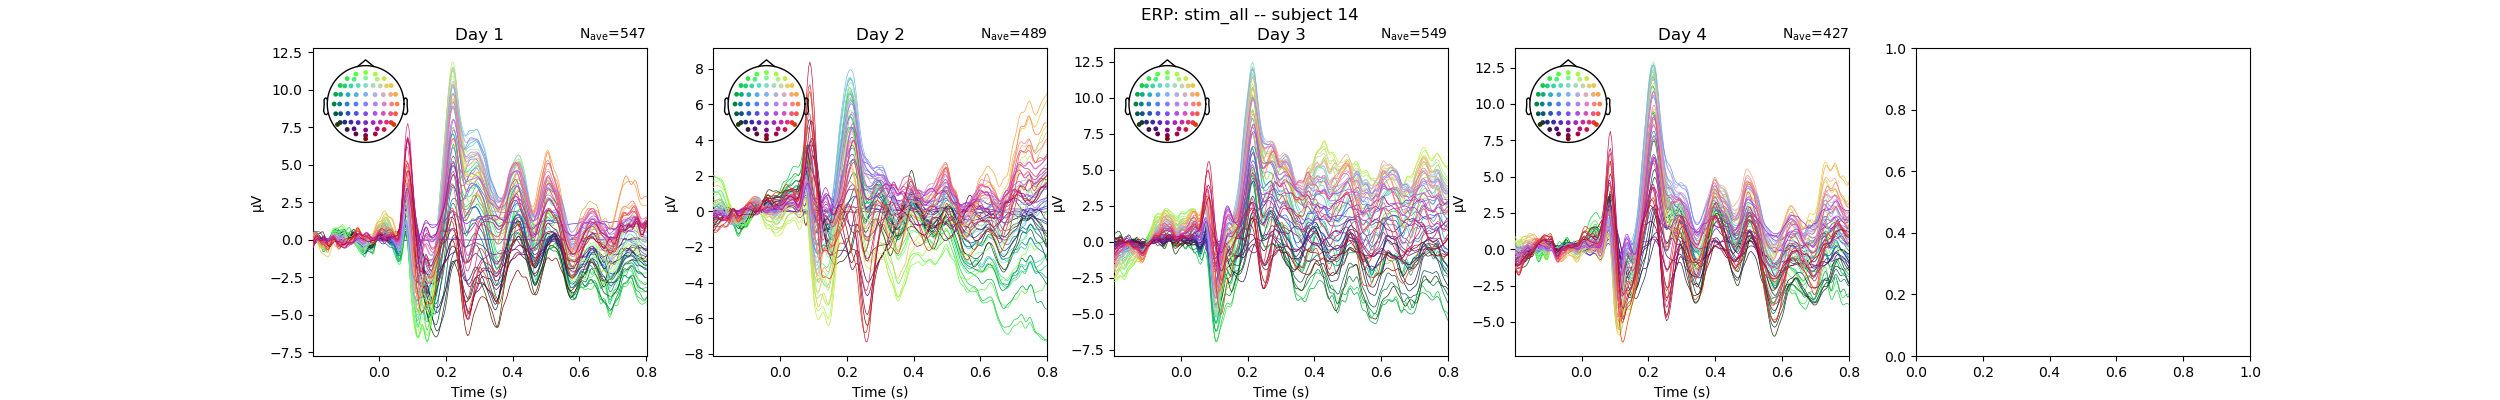
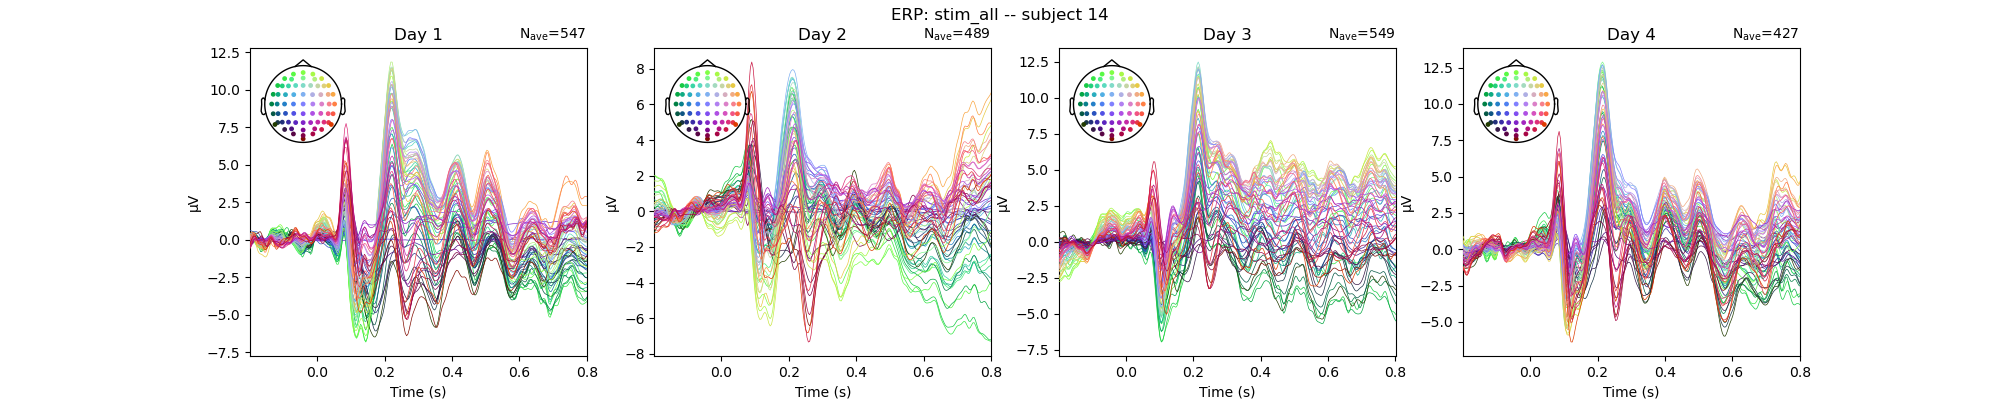
new output and figures and resp locked erp

diff --git a/code/util_func_erp.py b/code/util_func_erp.py
@@ -3,6 +3,7 @@
 
 from pathlib import Path
 import os
+import numpy as np
 import pandas as pd
 import matplotlib
 matplotlib.use("Agg")
@@ -34,16 +35,130 @@ def util_erp_make_figures():
     }
 
     evoked_stim_all_rec = []
+    evoked_stim_cor_rec = []
+    evoked_stim_inc_rec = []
+    evoked_resp_all_rec = []
+    evoked_resp_cor_rec = []
+    evoked_resp_inc_rec = []
     sessions = util_wrangle_load_sessions()
     d = pd.DataFrame(sessions)
+
+    def _make_response_locked_evoked(epochs_stim, rt_sec, t_before=0.6):
+        """Build response-locked evoked with x-axis as time before response (0 -> t_before)."""
+        data = epochs_stim.get_data()
+        times = epochs_stim.times
+        info = epochs_stim.info.copy()
+        sfreq = info["sfreq"]
+        tau = np.arange(0.0, t_before + (1.0 / sfreq) / 2.0, 1.0 / sfreq)
+
+        n_trials, n_ch, _ = data.shape
+        aligned = np.full((n_trials, n_ch, len(tau)), np.nan, dtype=float)
+        for i_trial in range(n_trials):
+            rt = rt_sec[i_trial]
+            if (not np.isfinite(rt)) or (rt <= 0):
+                continue
+            sample_t = rt - tau
+            valid = (sample_t >= times[0]) & (sample_t <= times[-1])
+            if not np.any(valid):
+                continue
+            for i_ch in range(n_ch):
+                aligned[i_trial, i_ch, valid] = np.interp(sample_t[valid], times, data[i_trial, i_ch, :])
+
+        with np.errstate(invalid="ignore"):
+            mean_data = np.nanmean(aligned, axis=0)
+        # Some response-locked bins can have no valid contributing trials; keep plotting robust.
+        mean_data = np.nan_to_num(mean_data, nan=0.0, posinf=0.0, neginf=0.0)
+        return mne.EvokedArray(mean_data, info=info, tmin=0.0, nave=n_trials)
+
+    def _plot_day_grid(evoked_map, title, fig_name):
+        days_sorted = sorted(evoked_map.keys())
+        if len(days_sorted) == 0:
+            return
+        fig, axes = plt.subplots(1, len(days_sorted), figsize=(5 * len(days_sorted), 4), squeeze=False)
+        for i, day in enumerate(days_sorted):
+            ax = axes[0, i]
+            evoked_map[day].plot(
+                axes=ax,
+                show=False,
+                spatial_colors=True,
+                titles=f"Day {day}",
+            )
+            ax.set_title(f"Day {day}")
+        fig.suptitle(title)
+        fig.savefig(figures_dir / fig_name)
+        plt.close(fig)
+
+    def _plot_day_condition_grid(evoked_by_day_cond, title, fig_name):
+        days_sorted = sorted({k[0] for k in evoked_by_day_cond.keys()})
+        conds = ["correct", "incorrect"]
+        fig, axes = plt.subplots(
+            len(conds),
+            len(days_sorted),
+            figsize=(5 * len(days_sorted), 4 * len(conds)),
+            squeeze=False,
+        )
+        for r, cond in enumerate(conds):
+            for c, day in enumerate(days_sorted):
+                ax = axes[r, c]
+                key = (day, cond)
+                if key not in evoked_by_day_cond:
+                    ax.set_axis_off()
+                    continue
+                evoked_by_day_cond[key].plot(
+                    axes=ax,
+                    show=False,
+                    spatial_colors=True,
+                    titles=f"Day {day} - {cond}",
+                )
+                ax.set_title(f"Day {day} - {cond}")
+        fig.suptitle(title)
+        fig.savefig(figures_dir / fig_name)
+        plt.close(fig)
+
+    def _evoked_map_to_long(evoked_map, lock_type, condition):
+        rows = []
+        for day, evoked in evoked_map.items():
+            arr = evoked.data
+            for i_ch, ch in enumerate(evoked.ch_names):
+                rows.append(
+                    pd.DataFrame(
+                        {
+                            "day": int(day),
+                            "lock_type": lock_type,
+                            "condition": condition,
+                            "channel": ch,
+                            "time_s": evoked.times,
+                            "amplitude_v": arr[i_ch, :],
+                        }
+                    )
+                )
+        if len(rows) == 0:
+            return pd.DataFrame(
+                columns=["day", "lock_type", "condition", "channel", "time_s", "amplitude_v"]
+            )
+        return pd.concat(rows, ignore_index=True)
 
     for sbj in d["subject"].unique():
         ds = d[d["subject"] == sbj]
         for day in ds["day"].unique():
             dsd = ds[ds["day"] == day]
-            beh_df = dsd["beh_df"].copy()
+            beh_df = dsd["beh_df"].iloc[0].copy()
             epochs = dsd["epochs"].iloc[0]
-            evoked_stim_all = epochs[event_map["stim_all"]].average()
+            beh_df = beh_df.sort_values("trial").reset_index(drop=True)
+            rt_sec = beh_df["rt"].astype(float).to_numpy() / 1000.0
+            fb = beh_df["fb"].astype(str).str.lower().to_numpy()
+
+            epochs_stim_all = epochs[event_map["stim_all"]]
+            n = min(len(epochs_stim_all), len(beh_df))
+            if n == 0:
+                continue
+            epochs_stim_all = epochs_stim_all[:n]
+            rt_use = rt_sec[:n]
+            fb_use = fb[:n]
+            idx_cor = np.where(fb_use == "correct")[0]
+            idx_inc = np.where(fb_use == "incorrect")[0]
+
+            evoked_stim_all = epochs_stim_all.average()
             evoked_stim_all_rec.append(
                 {
                     "subject": sbj,
@@ -51,13 +166,64 @@ def util_erp_make_figures():
                     "evoked_stim_all": evoked_stim_all,
                 }
             )
+            if len(idx_cor) > 0:
+                evoked_stim_cor_rec.append(
+                    {
+                        "subject": sbj,
+                        "day": day,
+                        "evoked_stim_cor": epochs_stim_all[idx_cor].average(),
+                    }
+                )
+            if len(idx_inc) > 0:
+                evoked_stim_inc_rec.append(
+                    {
+                        "subject": sbj,
+                        "day": day,
+                        "evoked_stim_inc": epochs_stim_all[idx_inc].average(),
+                    }
+                )
+
+            evoked_resp_all = _make_response_locked_evoked(epochs_stim_all, rt_use, t_before=0.6)
+            evoked_resp_all_rec.append(
+                {
+                    "subject": sbj,
+                    "day": day,
+                    "evoked_resp_all": evoked_resp_all,
+                }
+            )
+            if len(idx_cor) > 0:
+                evoked_resp_cor_rec.append(
+                    {
+                        "subject": sbj,
+                        "day": day,
+                        "evoked_resp_cor": _make_response_locked_evoked(
+                            epochs_stim_all[idx_cor], rt_use[idx_cor], t_before=0.6
+                        ),
+                    }
+                )
+            if len(idx_inc) > 0:
+                evoked_resp_inc_rec.append(
+                    {
+                        "subject": sbj,
+                        "day": day,
+                        "evoked_resp_inc": _make_response_locked_evoked(
+                            epochs_stim_all[idx_inc], rt_use[idx_inc], t_before=0.6
+                        ),
+                    }
+                )
 
     evoked_stim_all_rec = pd.DataFrame(evoked_stim_all_rec)
+    evoked_stim_cor_rec = pd.DataFrame(evoked_stim_cor_rec)
+    evoked_stim_inc_rec = pd.DataFrame(evoked_stim_inc_rec)
+    evoked_resp_all_rec = pd.DataFrame(evoked_resp_all_rec)
+    evoked_resp_cor_rec = pd.DataFrame(evoked_resp_cor_rec)
+    evoked_resp_inc_rec = pd.DataFrame(evoked_resp_inc_rec)
 
     for s in evoked_stim_all_rec["subject"].unique():
         ds = evoked_stim_all_rec[evoked_stim_all_rec["subject"] == s]
-        fig, axes = plt.subplots(1, 5, figsize=(25, 4), squeeze=False)
-        for i, day in enumerate(ds["day"].unique()):
+        days_sorted = sorted(ds["day"].unique())
+        fig, axes = plt.subplots(1, len(days_sorted), figsize=(5 * len(days_sorted), 4), squeeze=False)
+        for i, day in enumerate(days_sorted):
             ax = axes[0, i]
             evoked = ds.loc[ds["day"] == day, "evoked_stim_all"].iloc[0]
             evoked.plot(
@@ -75,17 +241,67 @@ def util_erp_make_figures():
     for day, g in evoked_stim_all_rec.groupby("day"):
         evoked_stim_all_mean[day] = mne.grand_average(g["evoked_stim_all"].tolist())
 
-    fig, axes = plt.subplots(1, 5, figsize=(25, 4), squeeze=False)
-    for i, day in enumerate(evoked_stim_all_rec["day"].unique()):
-        ax = axes[0, i]
-        evoked_stim_all_mean[day].plot(
-            axes=ax,
-            show=False,
-            spatial_colors=True,
-            titles=f"Day {day}",
-        )
-        ax.set_title(f"Day {day}")
+    _plot_day_grid(
+        evoked_stim_all_mean,
+        title="Grand Average ERP: stim_all",
+        fig_name="erp_stim_all.png",
+    )
 
-    fig.suptitle("Grand Average ERP: stim_all")
-    fig.savefig(figures_dir / "erp_stim_all.png")
-    plt.close(fig)
+    evoked_stim_cor_mean = {}
+    for day, g in evoked_stim_cor_rec.groupby("day"):
+        evoked_stim_cor_mean[day] = mne.grand_average(g["evoked_stim_cor"].tolist())
+    evoked_stim_inc_mean = {}
+    for day, g in evoked_stim_inc_rec.groupby("day"):
+        evoked_stim_inc_mean[day] = mne.grand_average(g["evoked_stim_inc"].tolist())
+
+    evoked_stim_by_day_cond = {}
+    for day in sorted(set(evoked_stim_all_mean.keys())):
+        if day in evoked_stim_cor_mean:
+            evoked_stim_by_day_cond[(day, "correct")] = evoked_stim_cor_mean[day]
+        if day in evoked_stim_inc_mean:
+            evoked_stim_by_day_cond[(day, "incorrect")] = evoked_stim_inc_mean[day]
+    _plot_day_condition_grid(
+        evoked_stim_by_day_cond,
+        title="Grand Average ERP: stim locked by feedback correctness",
+        fig_name="erp_stim_correct_vs_incorrect.png",
+    )
+
+    evoked_resp_all_mean = {}
+    for day, g in evoked_resp_all_rec.groupby("day"):
+        evoked_resp_all_mean[day] = mne.grand_average(g["evoked_resp_all"].tolist())
+    _plot_day_grid(
+        evoked_resp_all_mean,
+        title="Grand Average ERP: response locked (time before response)",
+        fig_name="erp_response_all.png",
+    )
+
+    evoked_resp_cor_mean = {}
+    for day, g in evoked_resp_cor_rec.groupby("day"):
+        evoked_resp_cor_mean[day] = mne.grand_average(g["evoked_resp_cor"].tolist())
+    evoked_resp_inc_mean = {}
+    for day, g in evoked_resp_inc_rec.groupby("day"):
+        evoked_resp_inc_mean[day] = mne.grand_average(g["evoked_resp_inc"].tolist())
+    evoked_resp_by_day_cond = {}
+    for day in sorted(set(evoked_resp_all_mean.keys())):
+        if day in evoked_resp_cor_mean:
+            evoked_resp_by_day_cond[(day, "correct")] = evoked_resp_cor_mean[day]
+        if day in evoked_resp_inc_mean:
+            evoked_resp_by_day_cond[(day, "incorrect")] = evoked_resp_inc_mean[day]
+    _plot_day_condition_grid(
+        evoked_resp_by_day_cond,
+        title="Grand Average ERP: response locked by feedback correctness",
+        fig_name="erp_response_correct_vs_incorrect.png",
+    )
+
+    d_out = pd.concat(
+        [
+            _evoked_map_to_long(evoked_stim_all_mean, "stim", "all"),
+            _evoked_map_to_long(evoked_stim_cor_mean, "stim", "correct"),
+            _evoked_map_to_long(evoked_stim_inc_mean, "stim", "incorrect"),
+            _evoked_map_to_long(evoked_resp_all_mean, "response", "all"),
+            _evoked_map_to_long(evoked_resp_cor_mean, "response", "correct"),
+            _evoked_map_to_long(evoked_resp_inc_mean, "response", "incorrect"),
+        ],
+        ignore_index=True,
+    ).sort_values(["lock_type", "condition", "day", "channel", "time_s"])
+    d_out.to_csv(output_dir / "erp_grand_averages_by_day_lock_condition.csv", index=False)

diff --git a/code/util_func_connect.py b/code/util_func_connect.py
@@ -19,6 +19,8 @@ def util_connect_compute_visual_motor():
 
     figures_dir = Path("../figures/connectivity")
     figures_dir.mkdir(parents=True, exist_ok=True)
+    output_dir = Path("../output/connectivity")
+    output_dir.mkdir(parents=True, exist_ok=True)
 
     mne.set_log_level("ERROR")
 
@@ -277,6 +279,7 @@ def util_connect_compute_visual_motor():
         return
 
     d_connect = d_connect.sort_values(["lock_type", "band", "subject", "day", "lock_time"])
+    d_connect.to_csv(output_dir / "connectivity_profiles_subject_day.csv", index=False)
 
     _save_profile_figure(
         d_connect[d_connect["lock_type"] == "stim"].copy(),
@@ -297,6 +300,8 @@ def util_connect_explore_sensorwide_dynamics():
 
     figures_dir = Path("../figures/connectivity_sensorwide")
     figures_dir.mkdir(parents=True, exist_ok=True)
+    output_dir = Path("../output/connectivity_sensorwide")
+    output_dir.mkdir(parents=True, exist_ok=True)
 
     mne.set_log_level("ERROR")
 
@@ -592,6 +597,7 @@ def util_connect_explore_sensorwide_dynamics():
 
     xy = _channel_xy(info_subset, channel_subset)
     all_days = sorted({k[1] for k in agg.keys()})
+    agg_rows = []
 
     for lock_name in locks:
         for band_name in bands.keys():
@@ -610,6 +616,18 @@ def util_connect_explore_sensorwide_dynamics():
                             s, c = agg[key]
                             mat[i, j] = s / c if c > 0 else np.nan
                             mat[j, i] = mat[i, j]
+                            agg_rows.append(
+                                {
+                                    "lock_type": lock_name,
+                                    "day": day,
+                                    "band": band_name,
+                                    "lock_time": float(t),
+                                    "ch_i": channel_subset[i],
+                                    "ch_j": channel_subset[j],
+                                    "conn_val": float(mat[i, j]),
+                                    "n_session_contrib": int(c),
+                                }
+                            )
                     np.fill_diagonal(mat, 0.0)
                     mats.append(mat)
                 day_data[day] = {
@@ -621,7 +639,36 @@ def util_connect_explore_sensorwide_dynamics():
             _plot_graph_snapshots(day_data, xy, pair_idx, lock_name, band_name)
             _plot_node_strength_topomaps(day_data, info_subset, lock_name, band_name)
 
+    d_edges = pd.DataFrame(agg_rows).sort_values(
+        ["lock_type", "band", "day", "lock_time", "ch_i", "ch_j"]
+    )
+    d_edges.to_csv(output_dir / "sensorwide_edge_timeseries.csv", index=False)
+
+    d_node_strength = (
+        d_edges.melt(
+            id_vars=["lock_type", "day", "band", "lock_time", "conn_val"],
+            value_vars=["ch_i", "ch_j"],
+            value_name="channel",
+            var_name="channel_role",
+        )
+        .drop(columns=["channel_role"])
+        .groupby(["lock_type", "day", "band", "lock_time", "channel"], as_index=False)["conn_val"]
+        .sum()
+        .rename(columns={"conn_val": "node_strength"})
+        .sort_values(["lock_type", "band", "day", "lock_time", "channel"])
+    )
+    d_node_strength.to_csv(output_dir / "sensorwide_node_strength_timeseries.csv", index=False)
+
+    d_channels = pd.DataFrame(
+        {
+            "channel": channel_subset,
+            "x": xy[:, 0],
+            "y": xy[:, 1],
+        }
+    )
+    d_channels.to_csv(output_dir / "sensorwide_channel_layout.csv", index=False)
+
     print(
         f"Sensor-wide dynamics complete. Used sessions: {used_sessions}, "
-        f"skipped sessions: {skipped_sessions}. Output dir: {figures_dir}"
+        f"skipped sessions: {skipped_sessions}. Figure dir: {figures_dir}. Output dir: {output_dir}"
     )

diff --git a/code/inspect_results_eeg.py b/code/inspect_results_eeg.py
@@ -26,9 +26,8 @@ from util_func_mvpa import (
 if __name__ == "__main__":
 
     # util_epo_make_from_bdf()
-    # util_erp_make_figures()
+    util_erp_make_figures()
     # util_connect_compute_visual_motor()
-    util_connect_explore_sensorwide_dynamics()
+    # util_connect_explore_sensorwide_dynamics()
     # util_mvpa_time_resolved()
     # util_mvpa_temporal_generalization(n_workers=4)
-
